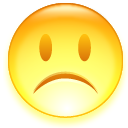
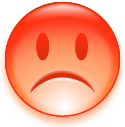
Changed button name in measurement Showing current username on mainpage changed the not sent smiley and made it red Closing the app does not work now commented printing the exception stack on the output console while not being able reading from DB

diff --git a/src/main/java/app/MainPage.java b/src/main/java/app/MainPage.java
@@ -95,7 +95,7 @@ public class MainPage {
 		// int ySize = ((int) tk.getScreenSize().getWidth()) - 100;
 		// frame.setPreferredSize(new Dimension(xSize, ySize));
 		frmUiaEhelse.setBounds(0, 0, 1366, 768);
-		frmUiaEhelse.setDefaultCloseOperation(JFrame.EXIT_ON_CLOSE);
+		frmUiaEhelse.setDefaultCloseOperation(JFrame.DO_NOTHING_ON_CLOSE);
 
 		final Panel panel = new Panel();
 		frmUiaEhelse.getContentPane().add(panel, BorderLayout.NORTH);
@@ -307,6 +307,16 @@ public class MainPage {
 		gbc_lblUiaEhelse.gridx = 1;
 		gbc_lblUiaEhelse.gridy = 4;
 		panel_2.add(lblUiaEhelse, gbc_lblUiaEhelse);
+		
+		JLabel lblUsername = new JLabel("Bruker: " + HealthProperties.getProperty("iipUsername"));
+		lblUsername.setBorder(new TitledBorder(null, "", TitledBorder.LEADING,
+				TitledBorder.TOP, null, null));
+		lblUsername.setFont(new Font("Arial", Font.BOLD, 20));
+		GridBagConstraints gbc_lblUsername = new GridBagConstraints();
+		gbc_lblUsername.insets = new Insets(0, 0, 5, 5);
+		gbc_lblUsername.gridx = 2;
+		gbc_lblUsername.gridy = 4;
+		panel_2.add(lblUsername, gbc_lblUsername);
 
 		JLabel lblNewLabel_1 = new JLabel(currentLanguage.getString("connStat"));
 		lblNewLabel_1.setFont(new Font("Arial", Font.BOLD, 16));
@@ -376,8 +386,8 @@ public class MainPage {
 			System.out.println("\nSuccessfully read last CAT from DB!");
 
 		} catch (Exception e) {
-			System.out.println("Reading from DB failed");
-			e.printStackTrace();
+			System.out.println("Reading from DB on main page failed");
+//			e.printStackTrace();
 		}
 	}
 
@@ -392,7 +402,7 @@ public class MainPage {
 		if (isSent) {
 			imageURL = cldr.getResource("glad.png");
 		} else {
-			imageURL = cldr.getResource("smile_6.png");
+			imageURL = cldr.getResource("sad.png");
 		}
 		icon = new ImageIcon(imageURL);
 		String title = currentLanguage.getString("sendStatus");
